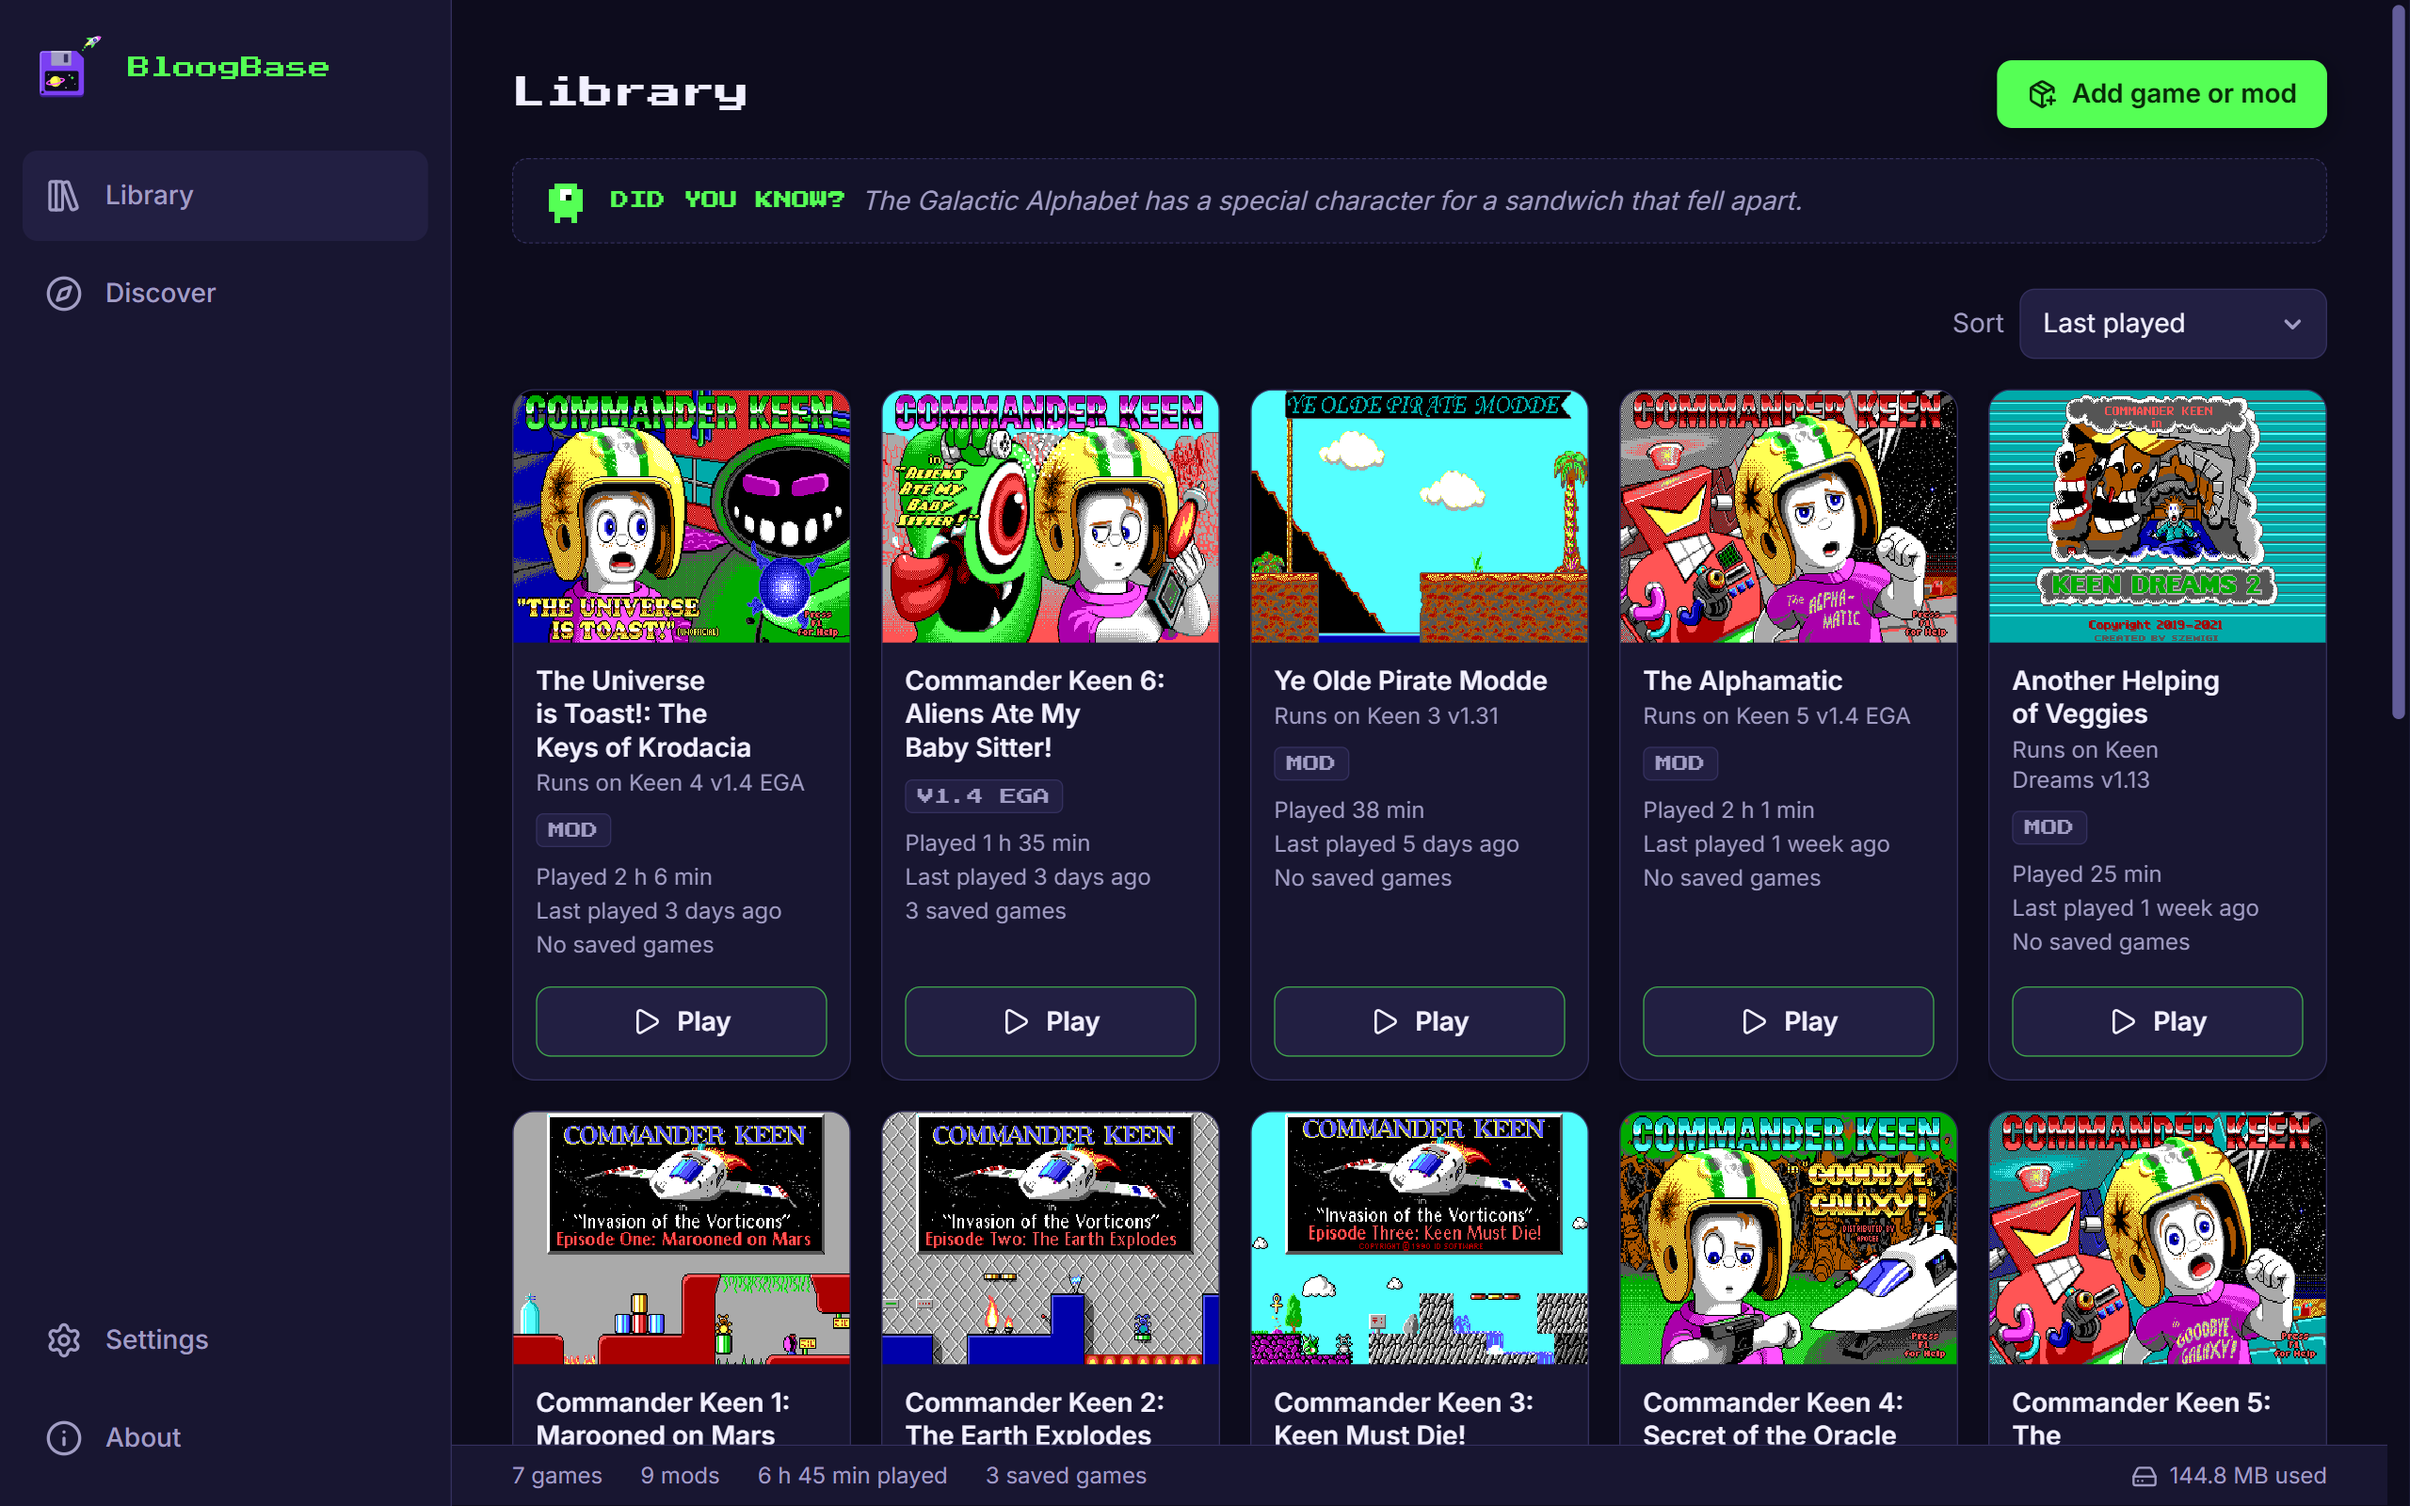
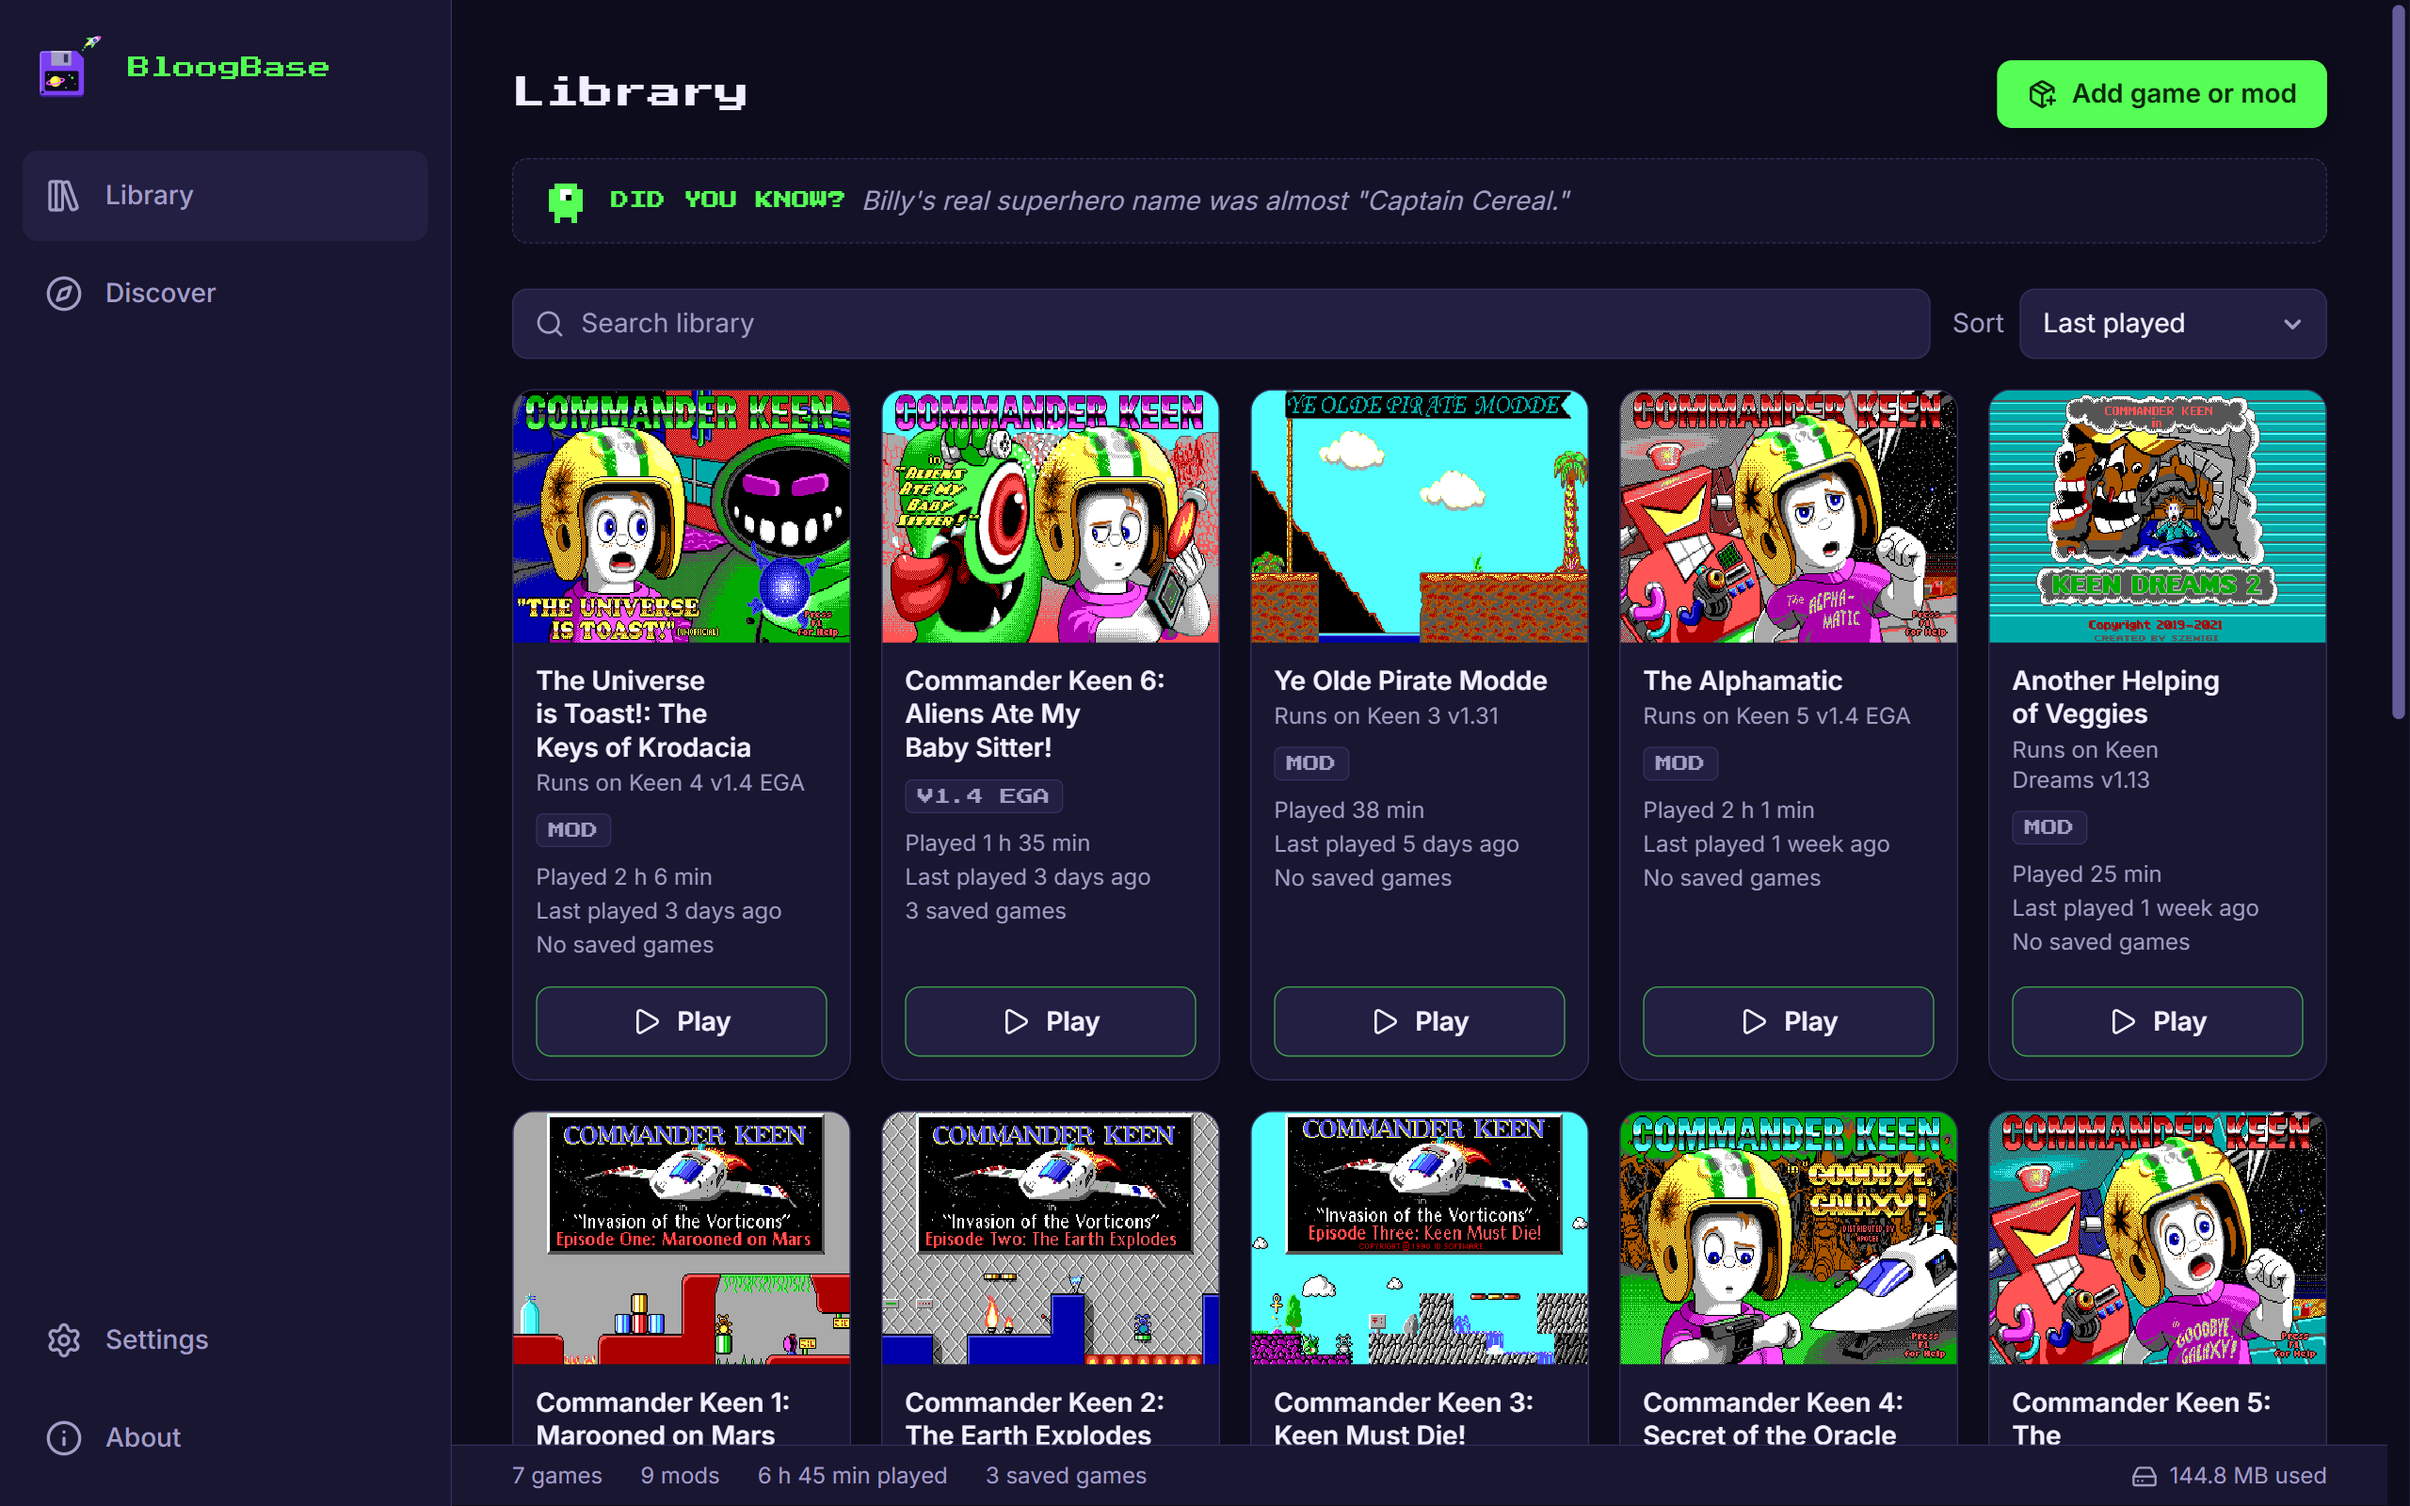
Add a search field to the library, as Discover has
It filters the cards by name, game title and version; when nothing
matches, a notice offers to clear the search.

Changed region(s): [[0.1875, 0.1875, 0.8125, 0.25], [0.3438, 0.125, 0.75, 0.1562]]

diff --git a/src/library/Library.tsx b/src/library/Library.tsx
@@ -49,6 +49,7 @@ export function Library() {
   const [finding, setFinding] = useState(false);
   const [imported, setImported] = useState<number | null>(null);
   const [sort, setSort] = useState(getLibrarySort);
+  const [query, setQuery] = useState("");
   // Only picked (and remembered as seen) when it's shown.
   const [trivia] = useState(() => (getShowTrivia() ? startupTrivia() : null));
   const list = useRef<HTMLDivElement>(null);
@@ -119,7 +120,16 @@ export function Library() {
   const error = launch.error ?? profiles.error;
   const empty = profiles.data?.length === 0;
   const needsRuntime = !empty && runtime.data && !runtime.data.active;
-  const groups = arrange(profiles.data ?? [], sort, games.data ?? [], i18n.language);
+  const needle = query.trim().toLowerCase();
+  const shown = (profiles.data ?? []).filter((p) => {
+    if (!needle) return true;
+    const game = gameById.get(p.gameId);
+    const version = game?.versions.find((v) => v.id === p.versionId)?.label;
+    return [p.label, game?.title, game?.shortTitle, version].some((s) =>
+      s?.toLowerCase().includes(needle),
+    );
+  });
+  const groups = arrange(shown, sort, games.data ?? [], i18n.language);
   // Names on more than one card, e.g. two copies of the same game.
   const labels = (profiles.data ?? []).map((p) => p.label);
   const shared = new Set(labels.filter((label, i) => labels.indexOf(label) !== i));
@@ -213,7 +223,22 @@ export function Library() {
       )}
 
       {profiles.data && profiles.data.length > 0 && (
-        <div className="mb-4 flex justify-end">
+        <div className="mb-4 flex flex-wrap items-center gap-3">
+          <label className="relative min-w-48 flex-1">
+            <span className="sr-only">{t("library.search")}</span>
+            <Search
+              className="pointer-events-none absolute top-1/2 left-3 size-4 -translate-y-1/2 text-muted"
+              aria-hidden
+            />
+            <input
+              type="search"
+              autoComplete="off"
+              className="w-full rounded-lg border border-border bg-surface-raised py-2 pr-3 pl-9 text-sm"
+              placeholder={t("library.search")}
+              value={query}
+              onChange={(e) => setQuery(e.target.value)}
+            />
+          </label>
           <label className="flex items-center gap-2 text-sm text-muted">
             {t("library.sortBy")}
             <select
@@ -232,6 +257,15 @@ export function Library() {
               ))}
             </select>
           </label>
+        </div>
+      )}
+
+      {profiles.data && profiles.data.length > 0 && shown.length === 0 && (
+        <div className="flex flex-wrap items-center gap-3">
+          <Notice>{t("library.noMatch")}</Notice>
+          <Button variant="secondary" onClick={() => setQuery("")}>
+            {t("library.clearSearch")}
+          </Button>
         </div>
       )}
 

diff --git a/src/library/Library.test.tsx b/src/library/Library.test.tsx
@@ -328,6 +328,29 @@ test("sorting by type groups games and mods and is remembered", async () => {
   localStorage.removeItem("bloogbase.librarySort");
 });
 
+test("the search filters by name, game and version, and can be cleared", async () => {
+  const mod: Profile = { ...profile, id: "aurora", modId: "aurora", label: "Aurora Bliss" };
+  vi.mocked(commands.listProfiles).mockResolvedValue({ status: "ok", data: [mod, profile] });
+  renderLibrary();
+  const search = await screen.findByRole("searchbox", { name: "Search library" });
+  await userEvent.type(search, "aurora");
+  expect(screen.getByRole("heading", { name: "Aurora Bliss" })).toBeInTheDocument();
+  expect(screen.queryByRole("heading", { name: keen5.title })).not.toBeInTheDocument();
+  // The game's short title finds the mod played on it too.
+  await userEvent.clear(search);
+  await userEvent.type(search, "keen 5");
+  expect(screen.getAllByRole("heading", { level: 2 })).toHaveLength(2);
+  await userEvent.clear(search);
+  await userEvent.type(search, "v1.4 ega");
+  expect(screen.getByRole("heading", { name: keen5.title })).toBeInTheDocument();
+  await userEvent.clear(search);
+  await userEvent.type(search, "vorticon");
+  expect(screen.getByText("Nothing in your library matches.")).toBeInTheDocument();
+  await userEvent.click(screen.getByRole("button", { name: "Clear search" }));
+  expect(search).toHaveValue("");
+  expect(screen.getByRole("heading", { name: "Aurora Bliss" })).toBeInTheDocument();
+});
+
 test("the status bar sums up the library and its disk space", async () => {
   const mod: Profile = { ...profile, id: "aurora", modId: "aurora", label: "Aurora Bliss" };
   vi.mocked(commands.listProfiles).mockResolvedValue({ status: "ok", data: [mod, profile] });

diff --git a/CHANGELOG.md b/CHANGELOG.md
@@ -8,6 +8,7 @@
 - Games, shareware episodes and demos show their own documents in a README tab, as mods do, the games' own documents included.
 - "Mod won't start?": when a mod's first start with a new setup (base game, mod files or recipe) ends with a message or within 30 seconds, BloogBase offers to report it as a GitHub issue, with the details it needs; the mod's More menu offers it anytime.
 - A Controls tab on every game and mod page shows the keys of its series as keycaps, following one-button firing, with the known cheat codes folded away; the first start of each series shows it before the game starts.
+- The library has a search field, as Discover has: it filters the cards by name, game and version.
 
 ### Improvements
 
